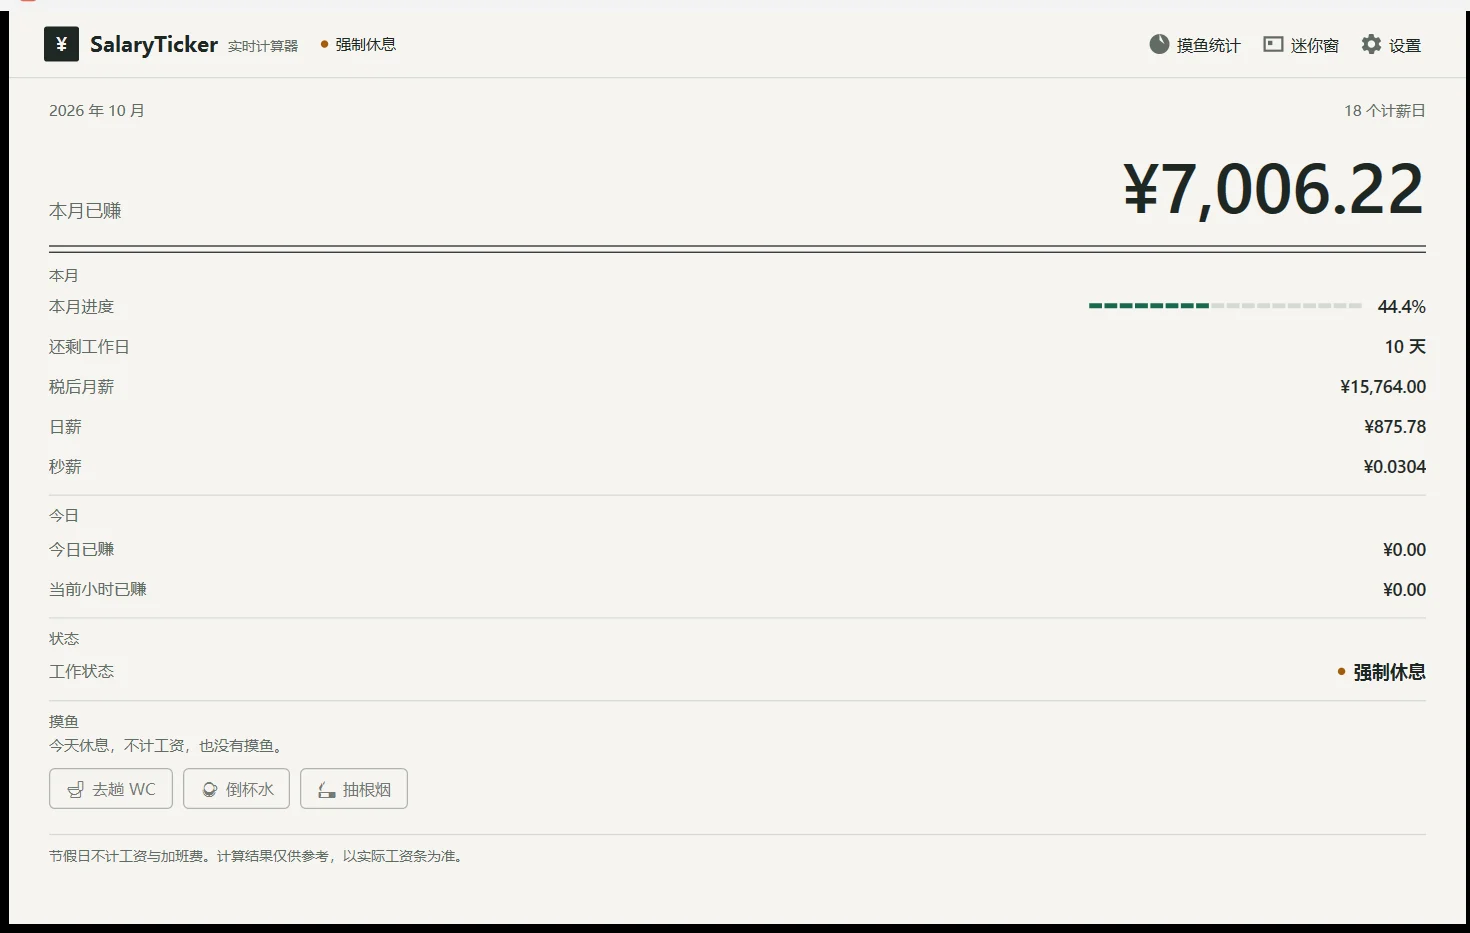
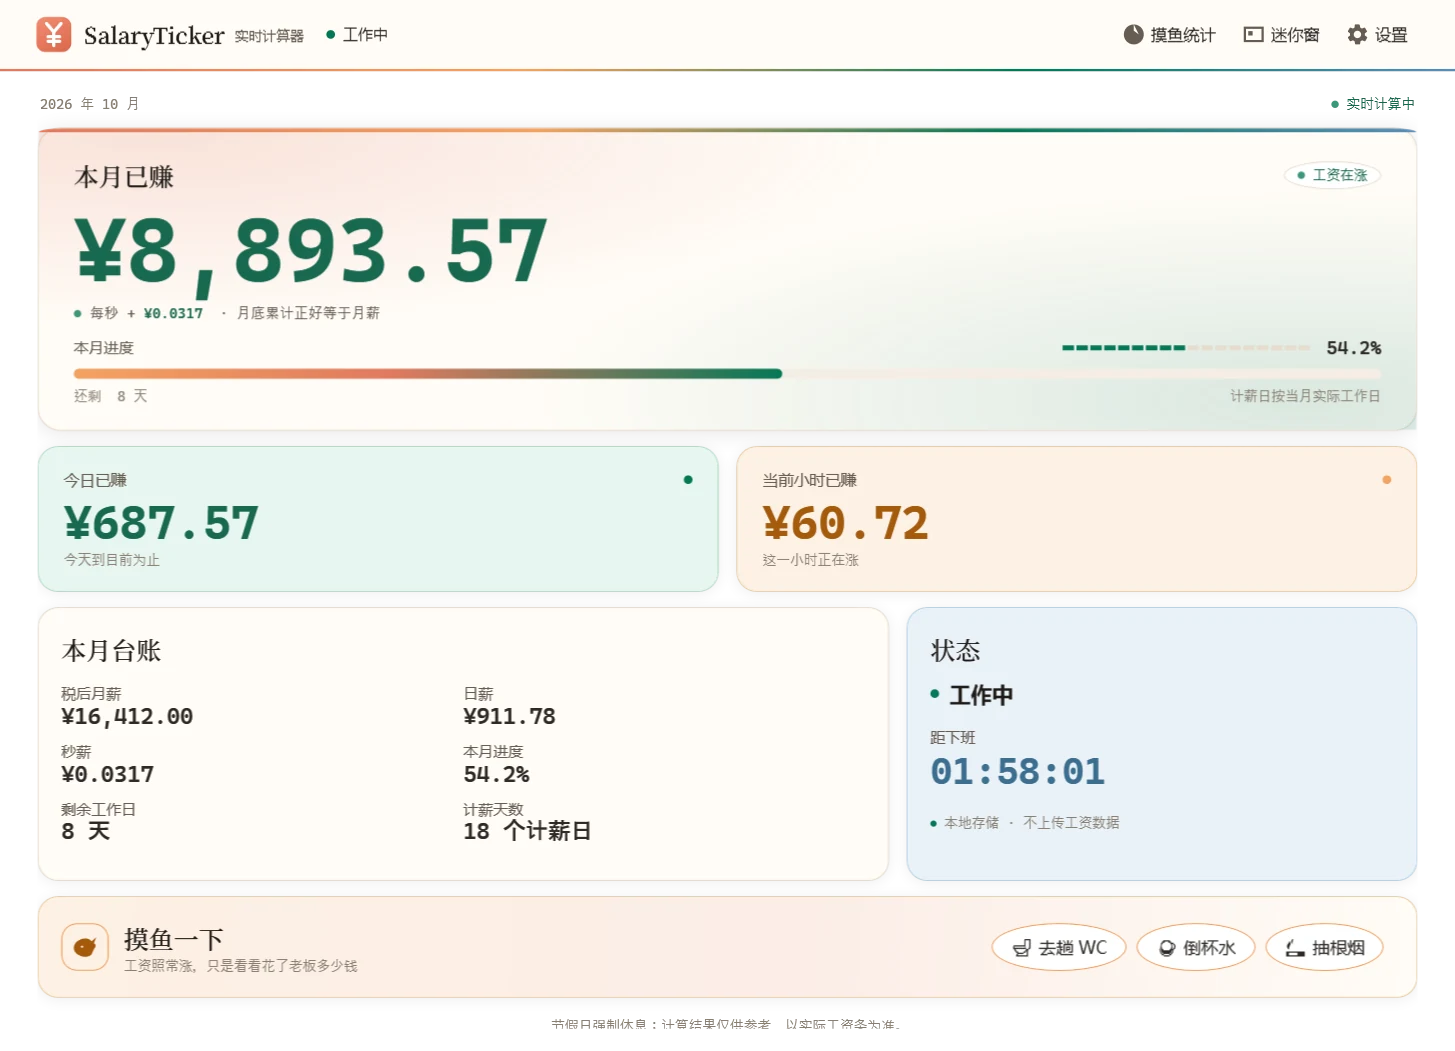
chore(ui): 更新官网应用截图并加入截图模式
- 用 Warm v2 主窗/迷你窗替换官网 app-shot 与 mini-shot
- 新增 shot-main / shot-mini（RenderTargetBitmap 1.25x）与 SALARYTICKER_DATA_DIR 演示配置覆盖
- 官网图片 width/height 同步为 1455x1051 / 302x120

diff --git a/server/index.html b/server/index.html
@@ -755,13 +755,13 @@ footer .fine{margin-top:20px;padding-top:15px;border-top:1px solid var(--border-
       <div class="device-frame">
         <picture>
           <source srcset="assets/app-shot.webp" type="image/webp">
-          <img src="assets/app-shot.png" alt="SalaryTicker 主界面：本月已赚、本月台账、今日数据、状态与摸鱼按钮" width="1470" height="933" fetchpriority="high">
+          <img src="assets/app-shot.png" alt="SalaryTicker 主界面：本月已赚、本月台账、今日数据、状态与摸鱼按钮" width="1455" height="1051" fetchpriority="high">
         </picture>
       </div>
       <div class="device-mini">
         <picture>
           <source srcset="assets/mini-shot.webp" type="image/webp">
-          <img src="assets/mini-shot.png" alt="SalaryTicker 迷你悬浮窗" width="303" height="120" loading="lazy" decoding="async">
+          <img src="assets/mini-shot.png" alt="SalaryTicker 迷你悬浮窗" width="302" height="120" loading="lazy" decoding="async">
         </picture>
       </div>
       <p class="device-caption">演示数据，周末显示「强制休息」；迷你窗 242 × 96</p>

diff --git a/App.xaml.cs b/App.xaml.cs
@@ -3,8 +3,13 @@
 // 功能描述：应用入口与组合根（单实例保护、服务装配、窗口流编排）
 // ============================================================================
 
+using System.IO;
 using System.Threading;
 using System.Windows;
+using System.Windows.Controls;
+using System.Windows.Media;
+using System.Windows.Media.Imaging;
+using System.Windows.Threading;
 using SalaryTicker.Dialogs;
 using SalaryTicker.Services;
 using SalaryTicker.ViewModels;
@@ -84,6 +89,11 @@ public partial class App : Application
             ShowSingleWindow(new WarmGalleryWindow());
             return;
         }
+        if (e.Args.Contains("shot-main") || e.Args.Contains("shot-mini"))
+        {
+            RunScreenshot(e.Args);
+            return;
+        }
         if (e.Args.Contains("main"))
         {
             ShowSingleWindow(new MainWindow());
@@ -148,6 +158,84 @@ public partial class App : Application
     {
         window.Closed += (_, _) => Shutdown();
         window.Show();
+    }
+
+    /// <summary>
+    /// 开发用：把主窗 / 迷你窗以 1.25x 渲染为 PNG（不含 Windows 标题栏），供官网素材使用。
+    /// 用法：SalaryTicker.exe shot-main &lt;输出路径&gt; / shot-mini &lt;输出路径&gt;
+    /// </summary>
+    private void RunScreenshot(string[] args)
+    {
+        bool isMini = args.Contains("shot-mini");
+        string mode = isMini ? "shot-mini" : "shot-main";
+        int index = Array.IndexOf(args, mode);
+        string output = index >= 0 && index + 1 < args.Length
+            ? args[index + 1]
+            : Path.Combine(Path.GetTempPath(), isMini ? "SalaryTicker-mini.png" : "SalaryTicker-main.png");
+
+        Window window;
+        if (isMini)
+        {
+            AppServices.Ticker.Start();
+            AppServices.Ticker.RefreshNow();
+            window = new MiniWindow { Opacity = 1.0 };
+        }
+        else
+        {
+            window = new MainWindow();
+        }
+
+        window.ShowInTaskbar = false;
+        window.Show();
+        // WindowFit 会在 Loaded 中居中；这里再移到屏幕外，截图时不打扰桌面。
+        window.Left = -2400;
+        window.Top = 40;
+        window.UpdateLayout();
+
+        var timer = new DispatcherTimer
+        {
+            Interval = TimeSpan.FromMilliseconds(isMini ? 700 : 1800)
+        };
+        timer.Tick += (_, _) =>
+        {
+            timer.Stop();
+            if (!isMini)
+                HideScrollBars(window);
+            window.UpdateLayout();
+
+            var root = (FrameworkElement)window.Content;
+            if (!isMini && root is Panel panel && panel.Background == null)
+                panel.Background = window.Background;
+
+            // 渲染 root 的父级（客户区），这样迷你窗 6px 的外边距也会保留。
+            var visual = VisualTreeHelper.GetParent(root) as FrameworkElement ?? root;
+
+            const double scale = 1.25;
+            int width = (int)Math.Round(visual.ActualWidth * scale);
+            int height = (int)Math.Round(visual.ActualHeight * scale);
+            var bitmap = new RenderTargetBitmap(width, height, 96 * scale, 96 * scale, PixelFormats.Pbgra32);
+            bitmap.Render(visual);
+
+            var encoder = new PngBitmapEncoder();
+            encoder.Frames.Add(BitmapFrame.Create(bitmap));
+            using (var stream = File.Create(output))
+                encoder.Save(stream);
+
+            window.Close();
+            Shutdown();
+        };
+        timer.Start();
+    }
+
+    private static void HideScrollBars(DependencyObject root)
+    {
+        for (int i = 0; i < VisualTreeHelper.GetChildrenCount(root); i++)
+        {
+            var child = VisualTreeHelper.GetChild(root, i);
+            if (child is ScrollViewer viewer)
+                viewer.VerticalScrollBarVisibility = ScrollBarVisibility.Hidden;
+            HideScrollBars(child);
+        }
     }
 
     /// <summary>

diff --git a/Services/AppServices.cs b/Services/AppServices.cs
@@ -41,10 +41,13 @@ public static class AppServices
     /// <summary>时间提供者（生产环境使用系统时间）</summary>
     public static TimeProvider TimeProvider { get; private set; } = TimeProvider.System;
 
-    /// <summary>应用数据目录：%AppData%\SalaryTicker\</summary>
-    public static string AppDataDir { get; } = Path.Combine(
-        Environment.GetFolderPath(Environment.SpecialFolder.ApplicationData),
-        "SalaryTicker");
+    /// <summary>
+    /// 应用数据目录：默认 %AppData%\SalaryTicker\；
+    /// 可用 SALARYTICKER_DATA_DIR 覆盖（仅开发/截图用，避免读到或写回真实用户数据）。
+    /// </summary>
+    public static string AppDataDir { get; } =
+        Environment.GetEnvironmentVariable("SALARYTICKER_DATA_DIR")
+        ?? Path.Combine(Environment.GetFolderPath(Environment.SpecialFolder.ApplicationData), "SalaryTicker");
 
     /// <summary>
     /// 初始化所有服务（应用启动时调用一次）

diff --git a/docs/ui-refresh/decision.md b/docs/ui-refresh/decision.md
@@ -235,6 +235,14 @@
 - 验证：`dotnet build` 通过、`dotnet test` 231 全绿、`dotnet run -- smoke` 全部 OK；截图 `warm-v2-splash-restored.png`。
 - 未部署。
 
+## 官网应用截图更新（2026-10-20）
+
+- 主窗与迷你窗切到 Warm v2 后，同步替换官网 `server/assets/app-shot.png/webp` 与 `mini-shot.png/webp`。
+- 新增开发用 `shot-main` / `shot-mini` 启动模式：用 WPF `RenderTargetBitmap` 以 1.25x 渲染客户区（不含 Windows 标题栏），输出 PNG；主窗 1455×1051，迷你窗 302×120。官网 HTML 的 `width` / `height` 同步更新。
+- 新增 `SALARYTICKER_DATA_DIR` 环境变量覆盖数据目录；截图时指向独立的 demo 配置（税前 20000、五险一金按工资基数、公积金基数 5600 / 5%、专项扣除 0、历史月收入留空），避免读取或写回真实用户工资数据。
+- 官网首屏已用新截图验证：`site-warm-shots.png`；图片无 404，设备框与迷你浮层布局正常。
+- `dotnet build` 通过、`dotnet test` 231 全绿、`dotnet run -- smoke` 全部 OK；未部署。
+
 ## Phase 0 基线
 
 - `dotnet build`：通过。
